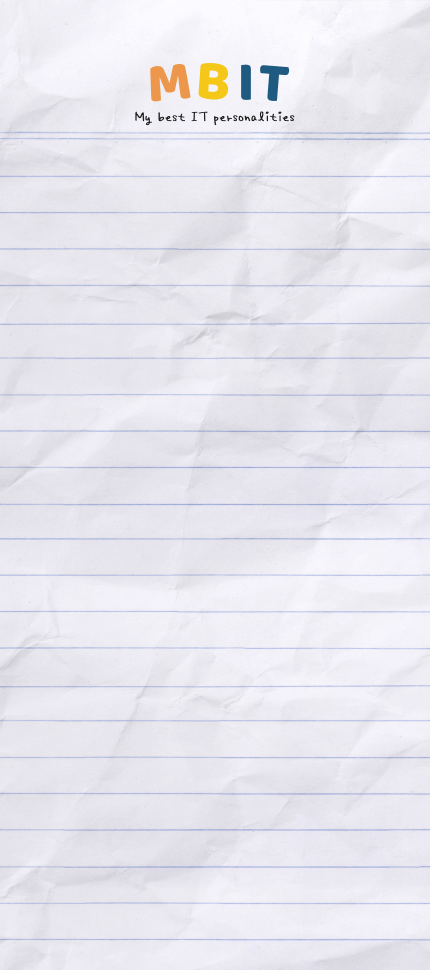
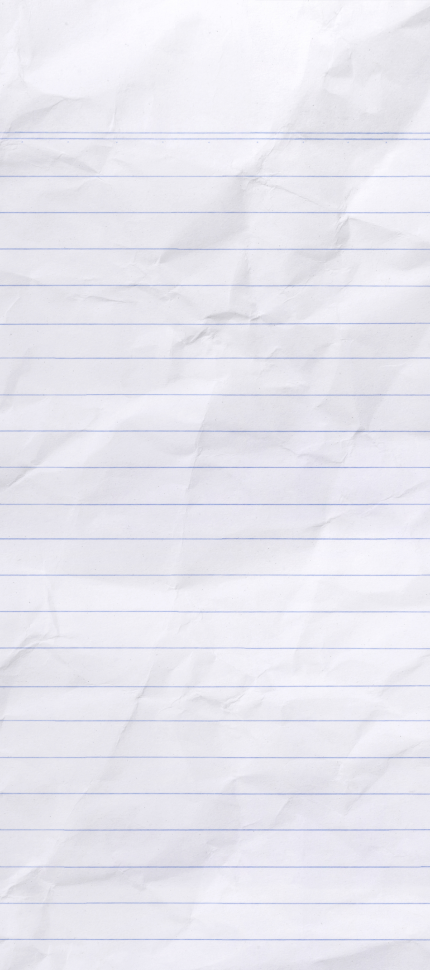
.

Changed region(s): [[0.3023, 0.0619, 0.6651, 0.1237]]

diff --git a/src/pages/TestPage.module.scss b/src/pages/TestPage.module.scss
@@ -4,62 +4,72 @@
   background-image: url('../assets/images/background-test.png');
   background-position: center;
   background-repeat: no-repeat;
-  background-size: contain;
+  // background-size: contain;
+  // background-size: auto;
+  background-size: cover;
 
   display: flex;
   flex-direction: column;
   .top {
-    flex: 13.8;
+    flex: 3.92;
   }
-
-  .bottom {
-    flex: 86.2;
-  }
-
-  .backArrow {
-    width: 30px;
-    height: 30px;
-    // margin-top: 17px;
-    // display: flex;
-    // justify-content: center;
-    // // flex-direction: row;
-    // justify-content: center;
-    // align-items: center;
-  }
-
-  .progress {
-    text-align: center;
-    font-family: 'Jua', sans-serif;
-    font-size: 30px;
-    color: #7e7e7e;
-    // margin-top: 180px;
-  }
-
-  .question {
-    text-align: center;
-    font-family: 'Jua', sans-serif;
-    font-size: 28px;
-    color: #14385d;
-    margin-top: 10px;
-  }
-
-  .answers {
+  .logos {
+    flex: 9.69;
     display: flex;
-    flex-direction: column;
-    align-items: center;
+    justify-content: center;
+
+    .logo {
+      width: 160px;
+      height: 94px;
+    }
   }
-  // .btn {
-  //   display: flex;
-  //   flex-direction: row;
-  //   justify-content: space-between;
-  //   margin: 19px 25px 0 25px;
-  //   .backBtn {
-  //     width: 107px;
-  //     height: 49px;
-  //   }
-  //   .nextBtn {
-  //     width: 107px;
-  //     height: 49px;
-  //   }
-  // }
+  .bottom {
+    flex: 86.39;
+
+    .backArrow {
+      width: 30px;
+      height: 30px;
+      // margin-top: 17px;
+      // display: flex;
+      // justify-content: center;
+      // // flex-direction: row;
+      // justify-content: center;
+      // align-items: center;
+    }
+    .progress {
+      text-align: center;
+      font-family: 'Jua', sans-serif;
+      font-size: 30px;
+      color: #7e7e7e;
+      // margin-top: 180px;
+    }
+
+    .question {
+      text-align: center;
+      font-family: 'Jua', sans-serif;
+      font-size: 28px;
+      color: #14385d;
+      margin-top: 10px;
+    }
+
+    .answers {
+      display: flex;
+      flex-direction: column;
+      align-items: center;
+    }
+    // .btn {
+    //   display: flex;
+    //   flex-direction: row;
+    //   justify-content: space-between;
+    //   margin: 19px 25px 0 25px;
+    //   .backBtn {
+    //     width: 107px;
+    //     height: 49px;
+    //   }
+    //   .nextBtn {
+    //     width: 107px;
+    //     height: 49px;
+    //   }
+    // }
+  }
 }

diff --git a/src/pages/TestPage.jsx b/src/pages/TestPage.jsx
@@ -9,6 +9,7 @@ import classes from './TestPage.module.scss';
 // import backBtn from '../assets/images/backBtn.png';
 // import nextBtn from '../assets/images/nextBtn.png';
 // import submitBtn from '../assets/images/submitBtn.png';
+import logo from '../assets/images/logo.png';
 import SelectBtn from '../components/SelectBtn';
 import backArrow from '../assets/images/backArrow.png';
 
@@ -63,6 +64,9 @@ function TestPage() {
   return (
     <div className={classes.container}>
       <div className={classes.top} />
+      <div className={classes.logos}>
+        <img className={classes.logo} src={logo} alt='logo' />
+      </div>
       <div className={classes.bottom}>
         <img className={classes.backArrow} src={backArrow} alt='back-arrow' />
         <div className={classes.progress}>
